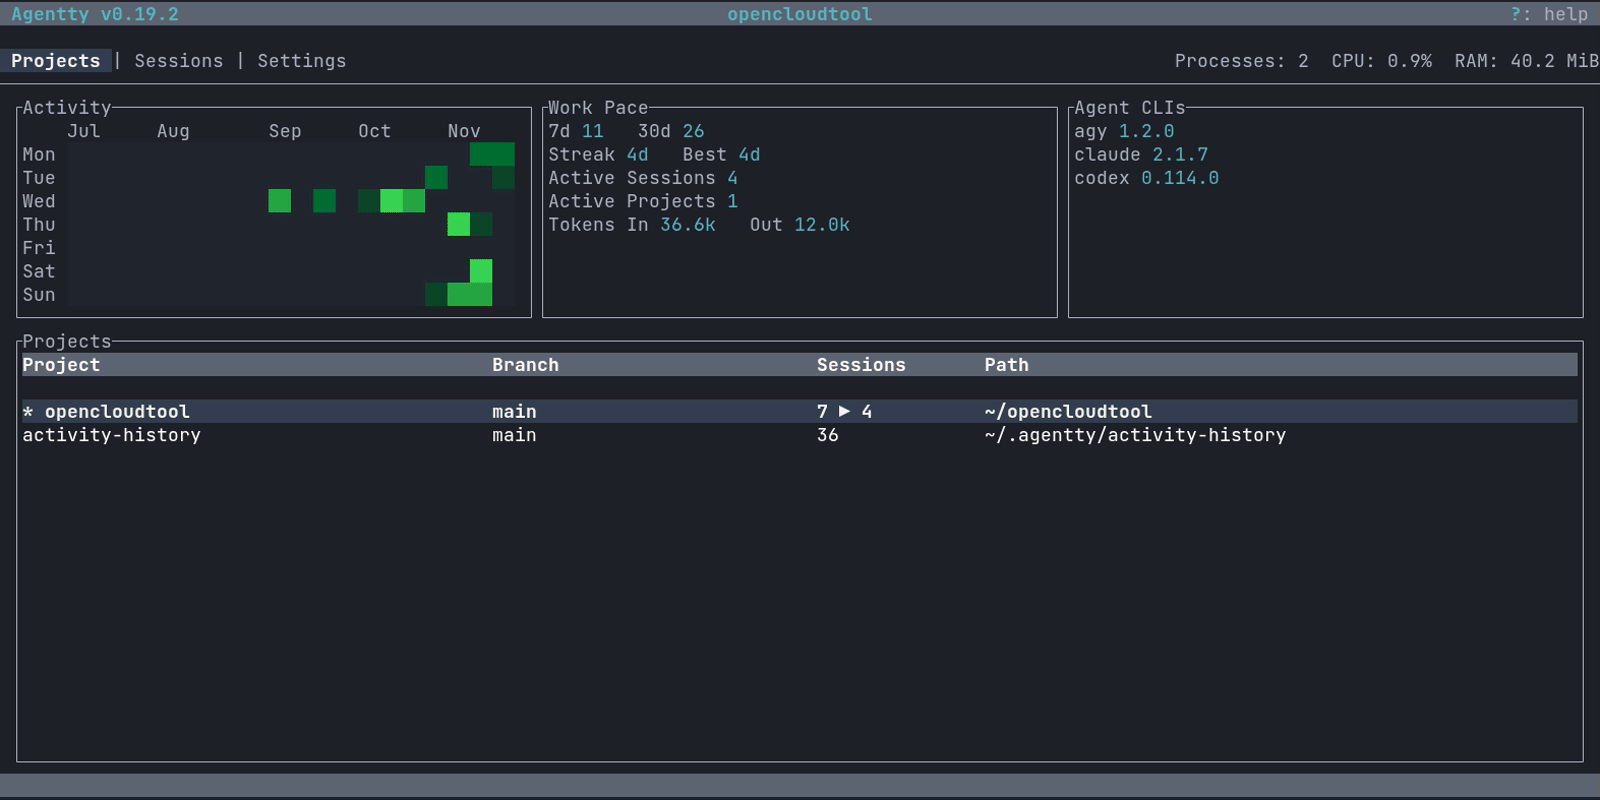
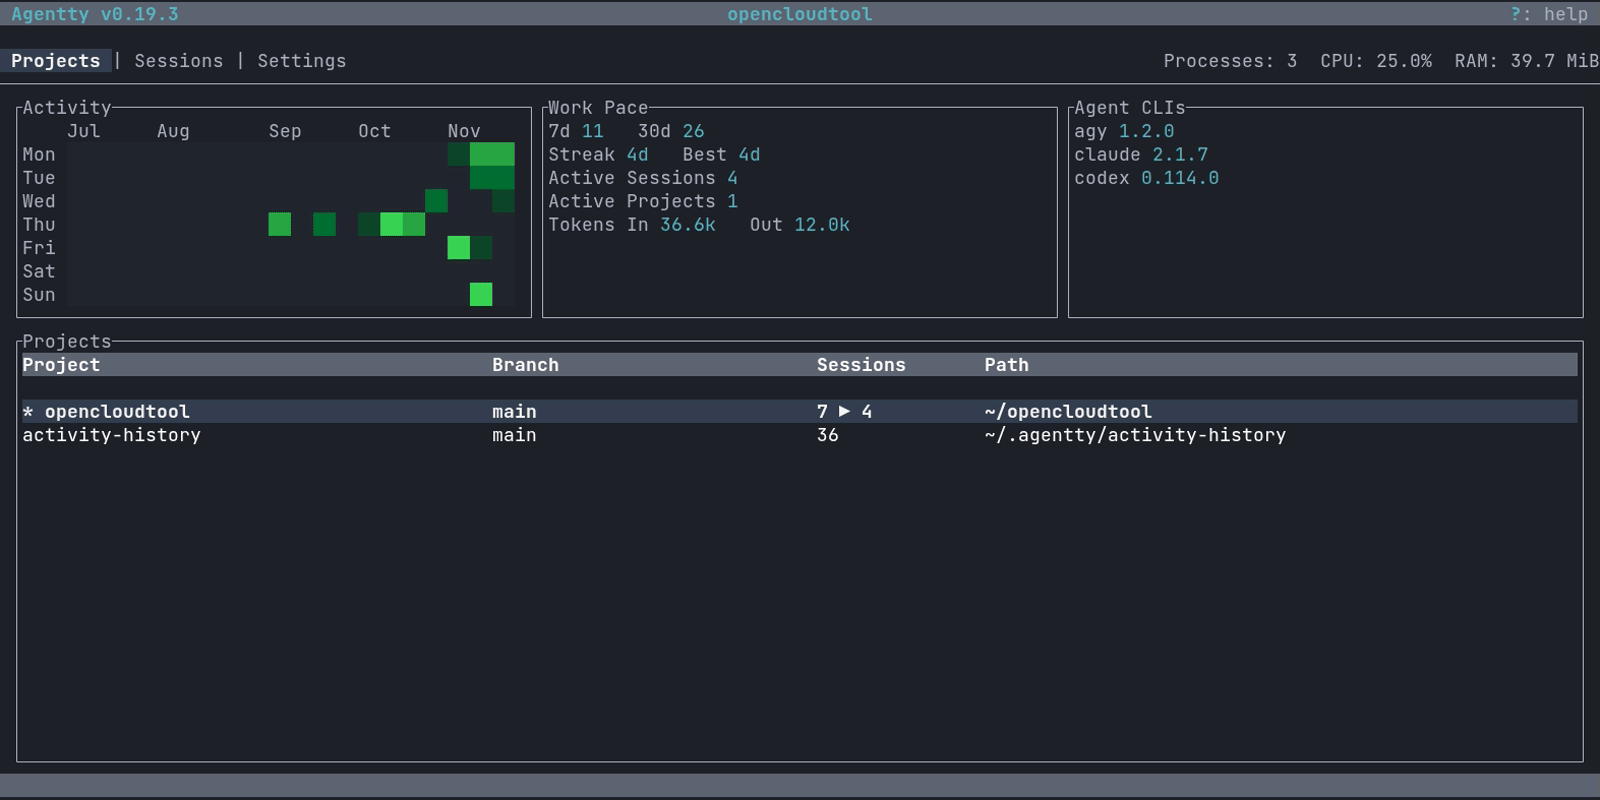
Bumps workspace version to 0.19.3 (#1174)
## Why?

`main` has 30 commits since `v0.19.2`, including the `ag-harness`
tool-handler, session, budget, and summary-model work, plus several
`agentty` session and graph UX changes. This prepares the `v0.19.3`
patch release so it can be tagged once this lands.

## What?

- The workspace version and every internal path dependency go from
`0.19.2` to `0.19.3` in `Cargo.toml` and `Cargo.lock`.
- `CHANGELOG.md` has a `v0.19.3` entry dated 2026-11-17 that covers the
changes since `v0.19.2` and lists the contributors.
- The marketing `demo`, `sessions`, and `tab_tour` GIFs were re-recorded
in the pinned recording container, and their PNG posters were extracted
again, so the top bar shows `v0.19.3`. The other 35 PNGs under
`docs/site/static/`, `social-card.png` included, were checked and are
current.

## Project impact

Release preparation only: no behavior, configuration, or compatibility
change, and no migration. After this merges, create the `v0.19.3` tag on
the merge commit in the GitHub UI to start the release workflows.

https://claude.ai/code/session_01DkTZ85YfoZTRBrNfxGYVXS

diff --git a/CHANGELOG.md b/CHANGELOG.md
@@ -7,6 +7,56 @@ this project adheres to [Semantic Versioning](https://semver.org/spec/v2.0.0.htm
 
 ## [Unreleased]
 
+## [v0.19.3] - 2026-11-17
+
+### Added
+
+- `ag-harness`: stream typed run events, and add per-run instructions, output modes,
+  generation parameters, and limits.
+- `ag-harness`: add session transcripts and forking, project session history across
+  model switches, and persist per-turn usage with run cost reported in micro-USD.
+- `ag-harness`: add a shared budget ledger with per-provider concurrency caps, and Cargo
+  feature flags.
+- `ag-harness`: add the open `ToolHandler` trait and `ToolSet`, with the built-in tools
+  reimplemented as handlers.
+- `ag-harness-cli`: add an unstable JSON-RPC serve mode.
+- `agentty`: show an approval notice in the graph chat when a step that needs user input
+  waits for approval.
+
+### Changed
+
+- `ag-harness`: route all tool dispatch through `ToolHandler` and deprecate the closed
+  tool enum and `ToolPolicy`.
+- `ag-harness`: run compaction and in-turn summaries on the resolved cheap model role
+  when the catalog has one, and budget replayed session history from the model's context
+  window.
+- `agentty`: add one commit per file-changing turn on published session branches instead
+  of amending the session commit, and list follow-up commit titles in local squash-merge
+  messages.
+- `agentty`: show Draft sessions as in progress during graph proposal and reply work,
+  and switch to in progress as soon as a chat message is queued.
+- `agentty`: wrap long graph node descriptions, highlight graph status labels, and
+  animate graph progress while nodes run.
+- `agentty`: write review replies in the language of each thread's latest reviewer
+  comment, and refine generated review request metadata.
+- `agentty`: select Yes by default in the startup repository discovery invitation.
+- workspace: enforce module, naming, import, and suppression conventions with Clippy,
+  ast-grep, and `ag-xtask` checks, guard `ag-store` foreign keys and checked queries
+  against full scans, and bump `sqlx` to `0.9.1`.
+- workspace: move contributor workflows from `docs/contributing/` into skills, and
+  require the `Project impact` section in pull request descriptions.
+- release: bump workspace crate metadata and lockfile package versions to `0.19.3`.
+
+### Fixed
+
+- `agentty`: make the published demo end on the completed Claude session.
+
+### Contributors
+
+- @andagaev
+- @dependabot
+- @minev-dev
+
 ## [v0.19.2] - 2026-11-16
 
 ### Added
